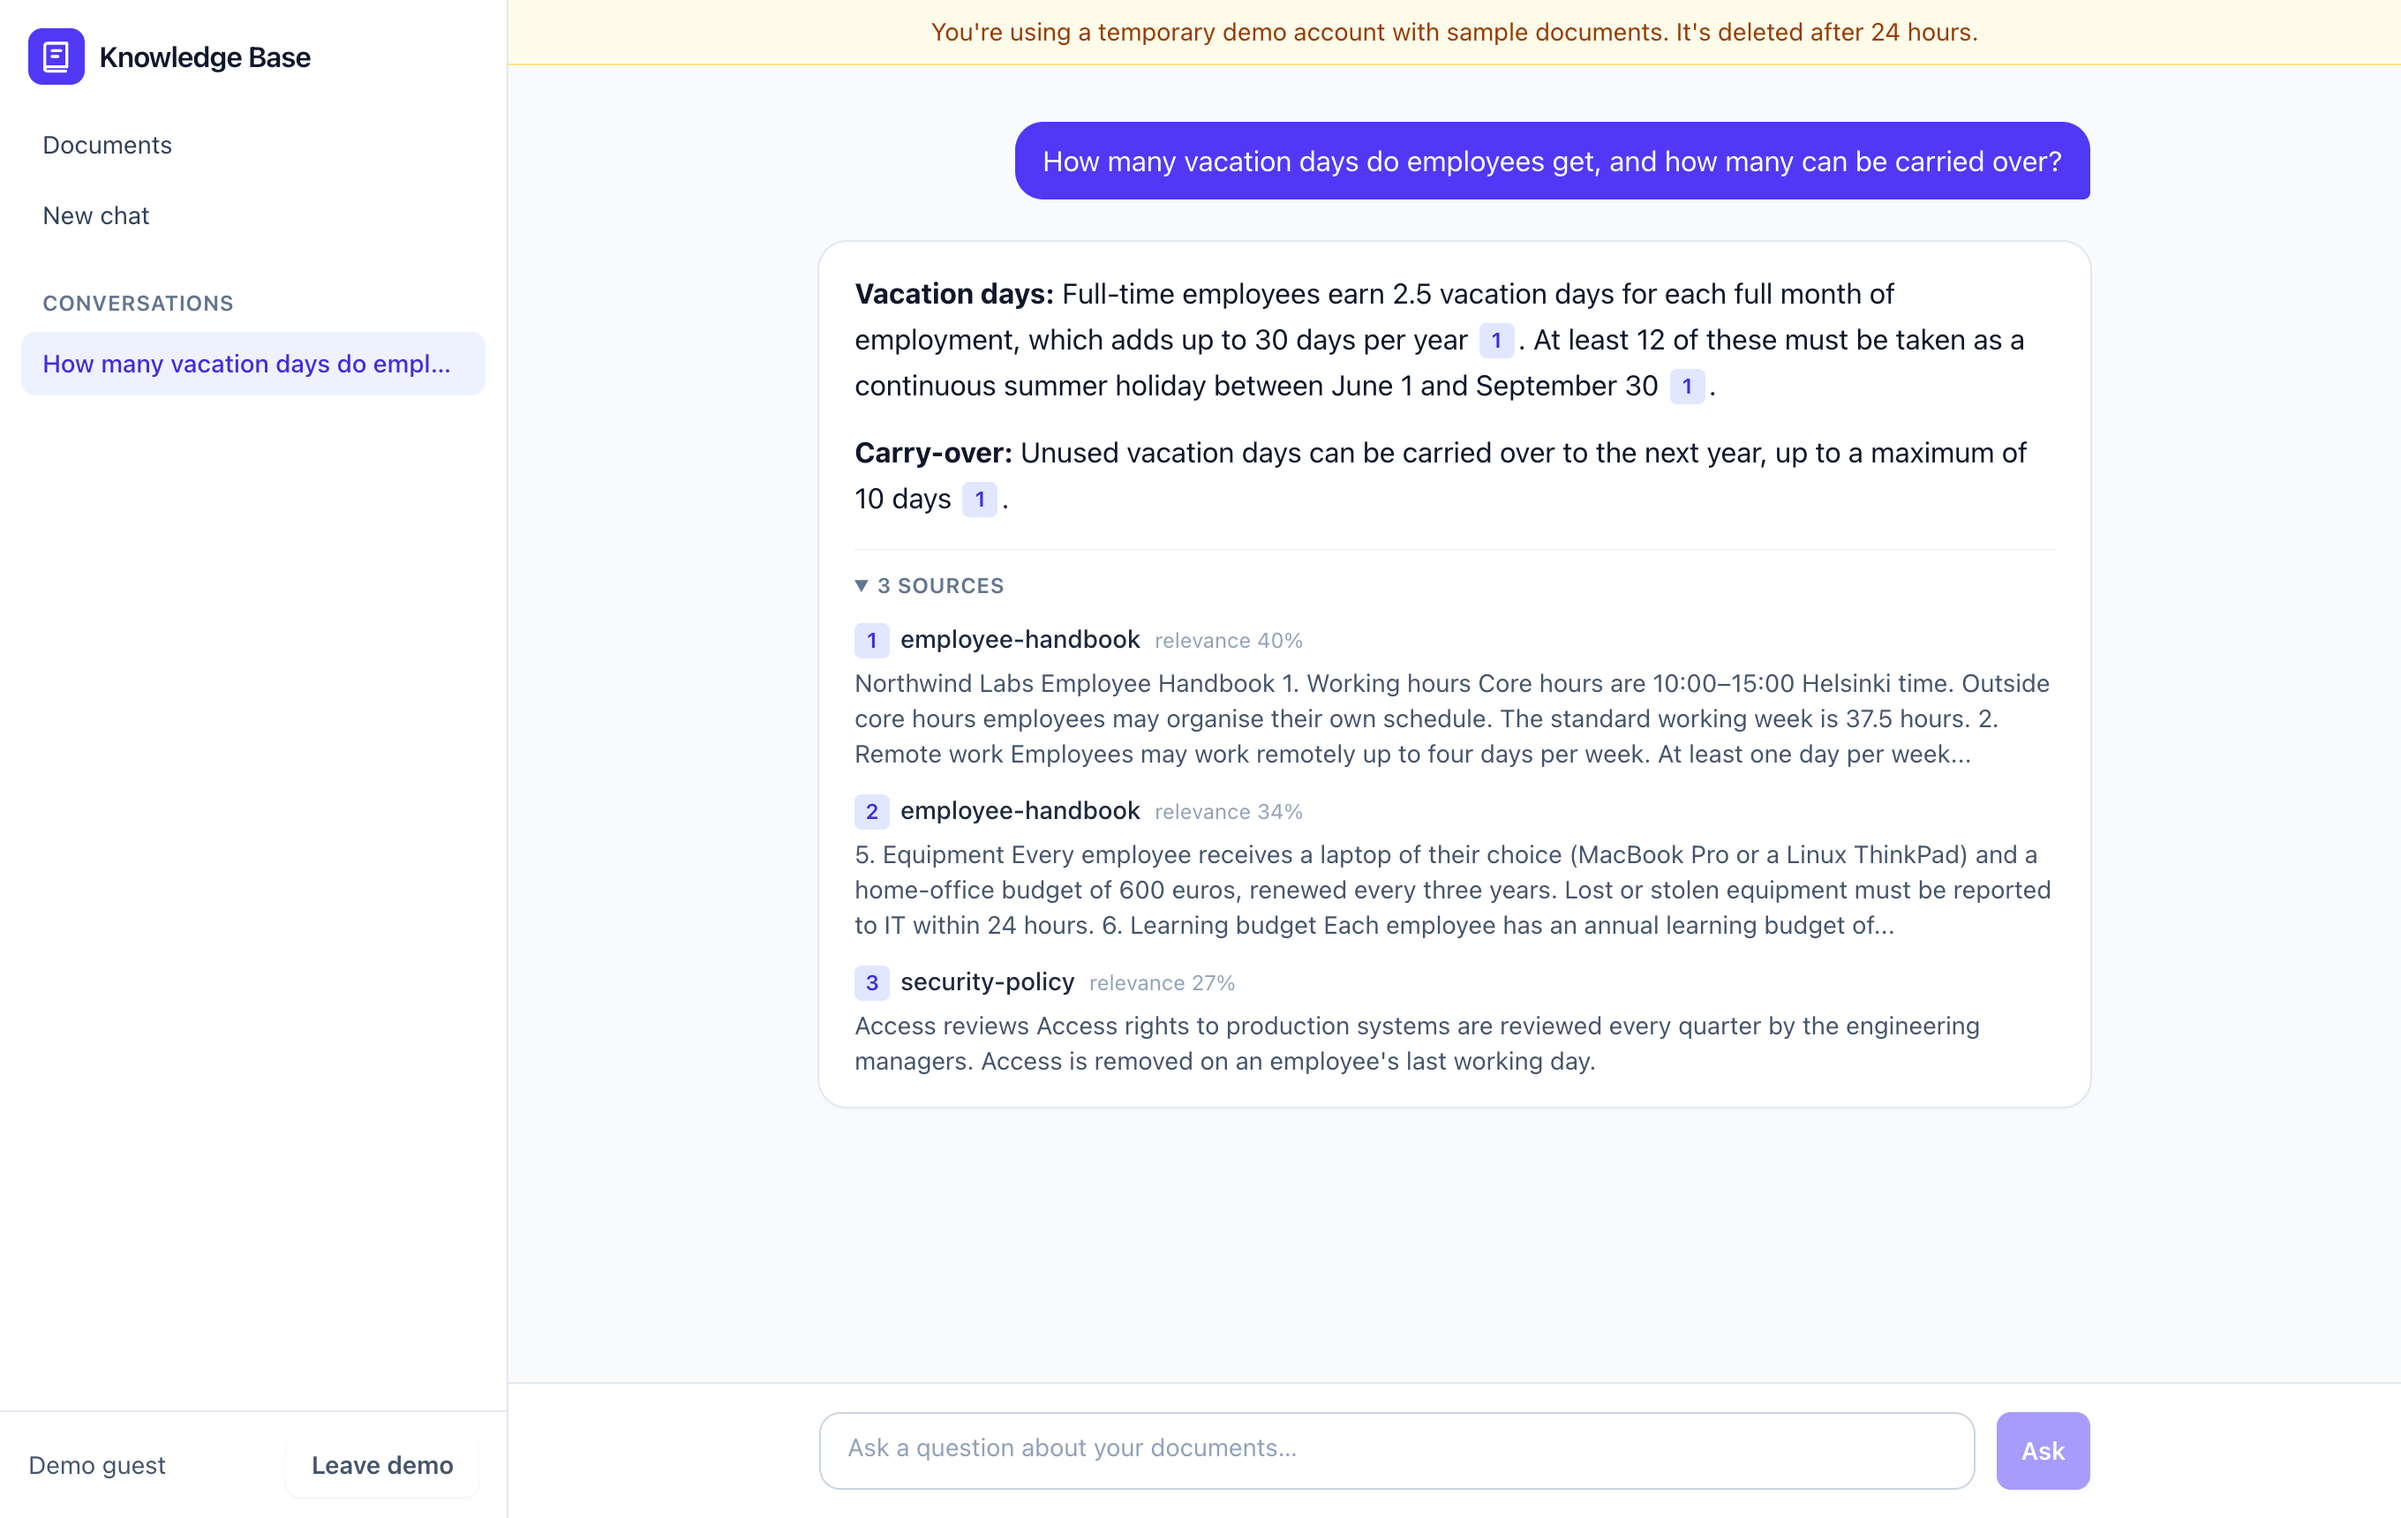
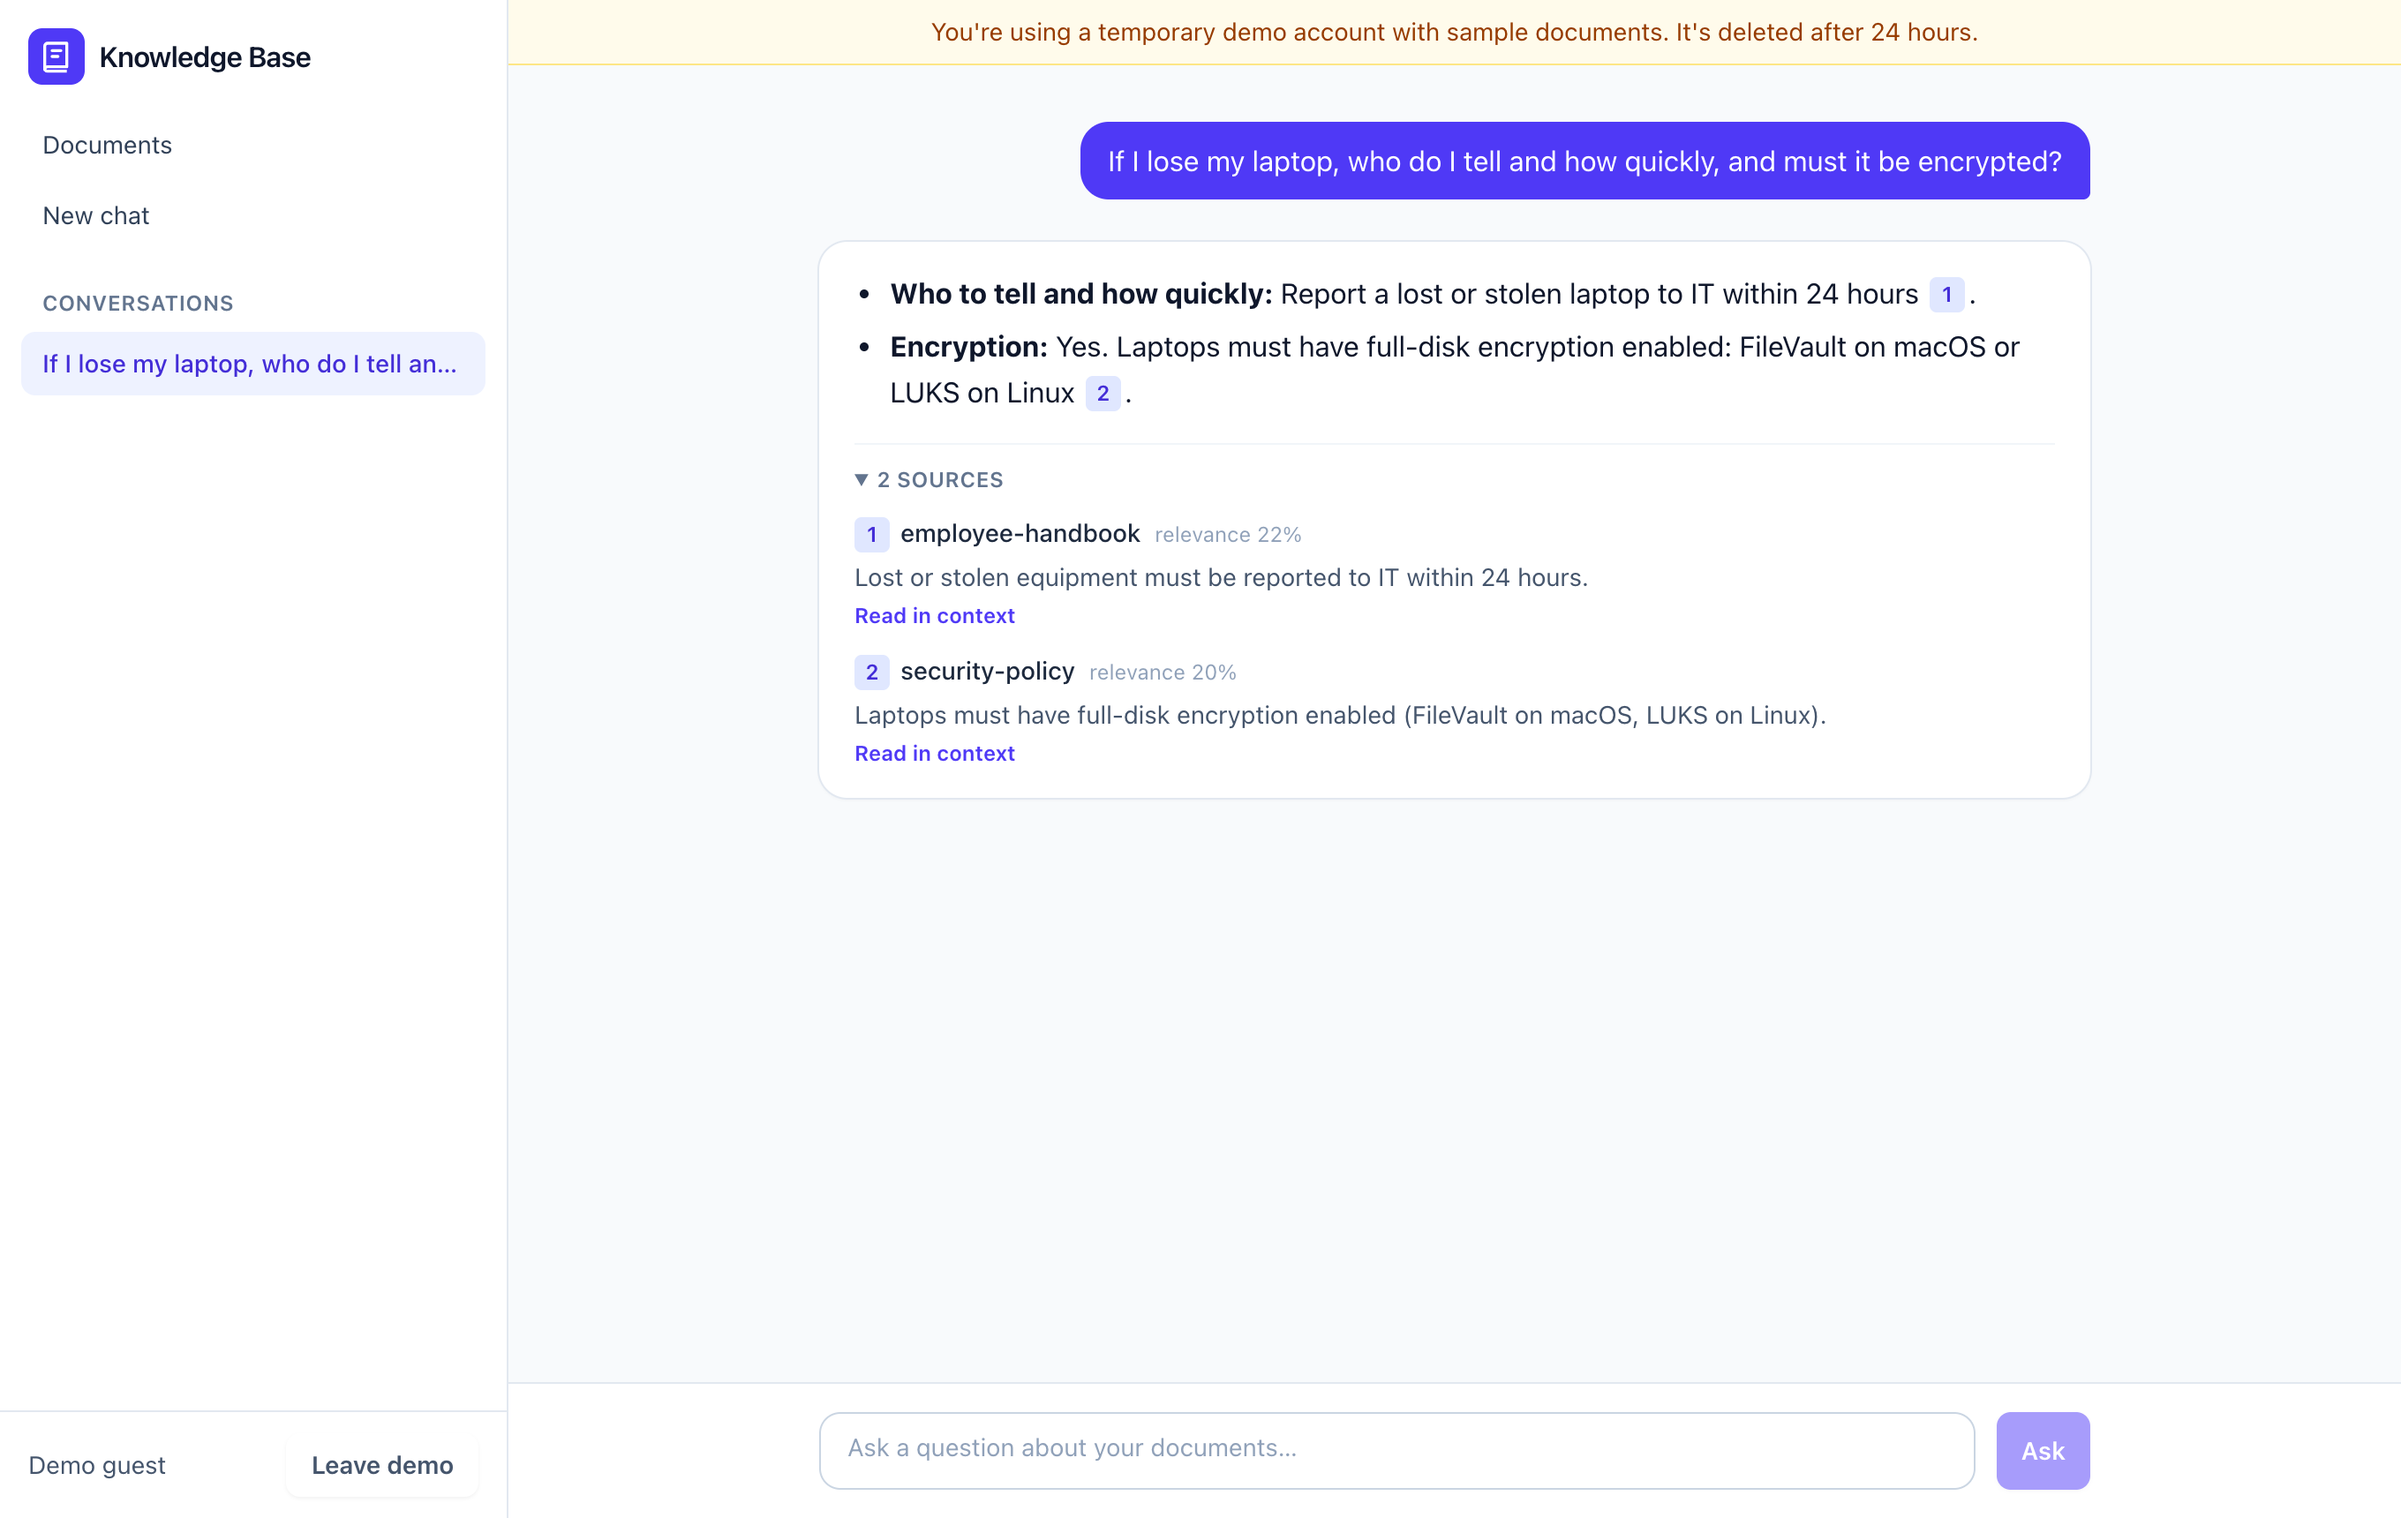
README: screenshots of the citation panel with highlights

diff --git a/README.md b/README.md
@@ -4,7 +4,7 @@ Upload your documents and ask questions about them. Answers are generated by an 
 
 **[Try the live demo →](https://ai-knowledge-base-template.pages.dev)** No sign-up: you get a private copy of sample documents (an employee handbook, a security policy and a product spec) for 24 hours. The demo runs on free hosting, so the first request after a quiet period can take up to a minute while the server wakes up.
 
-![Answer with numbered citations and the source passages it used](docs/screenshots/chat.png)
+![An answer with citations; clicking a citation opens the source passage with the sentence the answer relies on highlighted](docs/screenshots/citation.png)
 
 - **Backend:** Laravel 13 API (PHP 8.3+), Sanctum token auth, queued ingestion, [`laravel/ai`](https://github.com/laravel/ai) for provider-agnostic LLM + embeddings
 - **Frontend:** React 19 + TypeScript + Vite + Tailwind CSS 4 + TanStack Query
@@ -13,12 +13,14 @@ Upload your documents and ask questions about them. Answers are generated by an 
 
 <table>
   <tr>
-    <td><img src="docs/screenshots/landing.png" alt="Landing page with the Try the live demo button"></td>
+    <td><img src="docs/screenshots/chat.png" alt="An answer drawing on two documents, with numbered citations and the supporting sentence from each source"></td>
     <td><img src="docs/screenshots/documents.png" alt="Document library with uploaded PDF, DOCX and Markdown files ready to search"></td>
+    <td><img src="docs/screenshots/landing.png" alt="Landing page with the Try the live demo button"></td>
   </tr>
   <tr>
-    <td align="center">Landing page</td>
+    <td align="center">Answers cite each source</td>
     <td align="center">Document library: PDF, DOCX and Markdown</td>
+    <td align="center">Landing page</td>
   </tr>
 </table>
 
